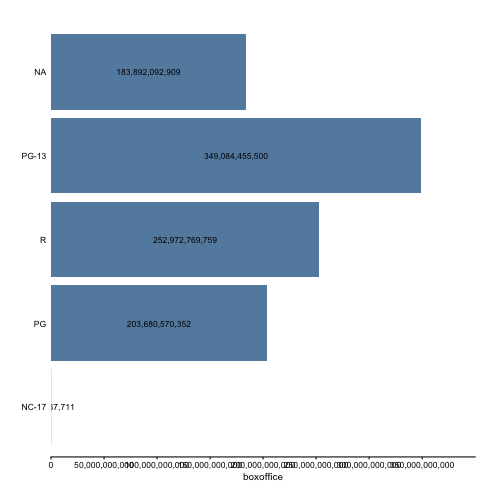
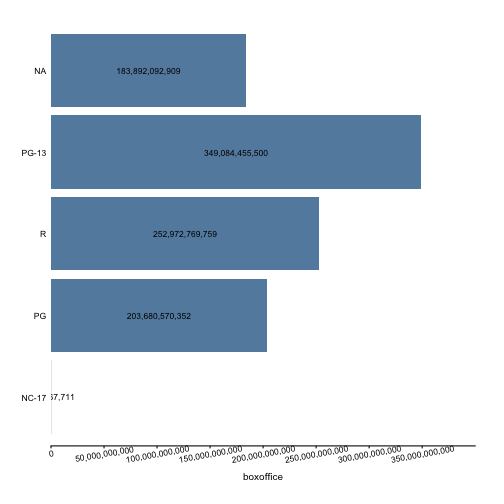
rotate x-tick text

diff --git a/manuscript/04-03-horizontal-barplot-n-lollipop.md b/manuscript/04-03-horizontal-barplot-n-lollipop.md
@@ -71,7 +71,8 @@ plt(xvar = "pct", yvar = "mpaa", show_pct = T, label_decimals = 2, font_size = 9
 A>
 ```r
 plt = mk_barploth_resp(films)
-plt("boxoffice", "mpaa", yorder = "descend", font_size = 10, label_decimals = 0)
+p = plt("boxoffice", "mpaa", yorder = "descend", font_size = 10, label_decimals = 0)
+rotate_axis_text(p, 10)
 ```
 
 ![Boxoffice by MPAA](images/barploth_mpaa_vs_bo-1.png)
